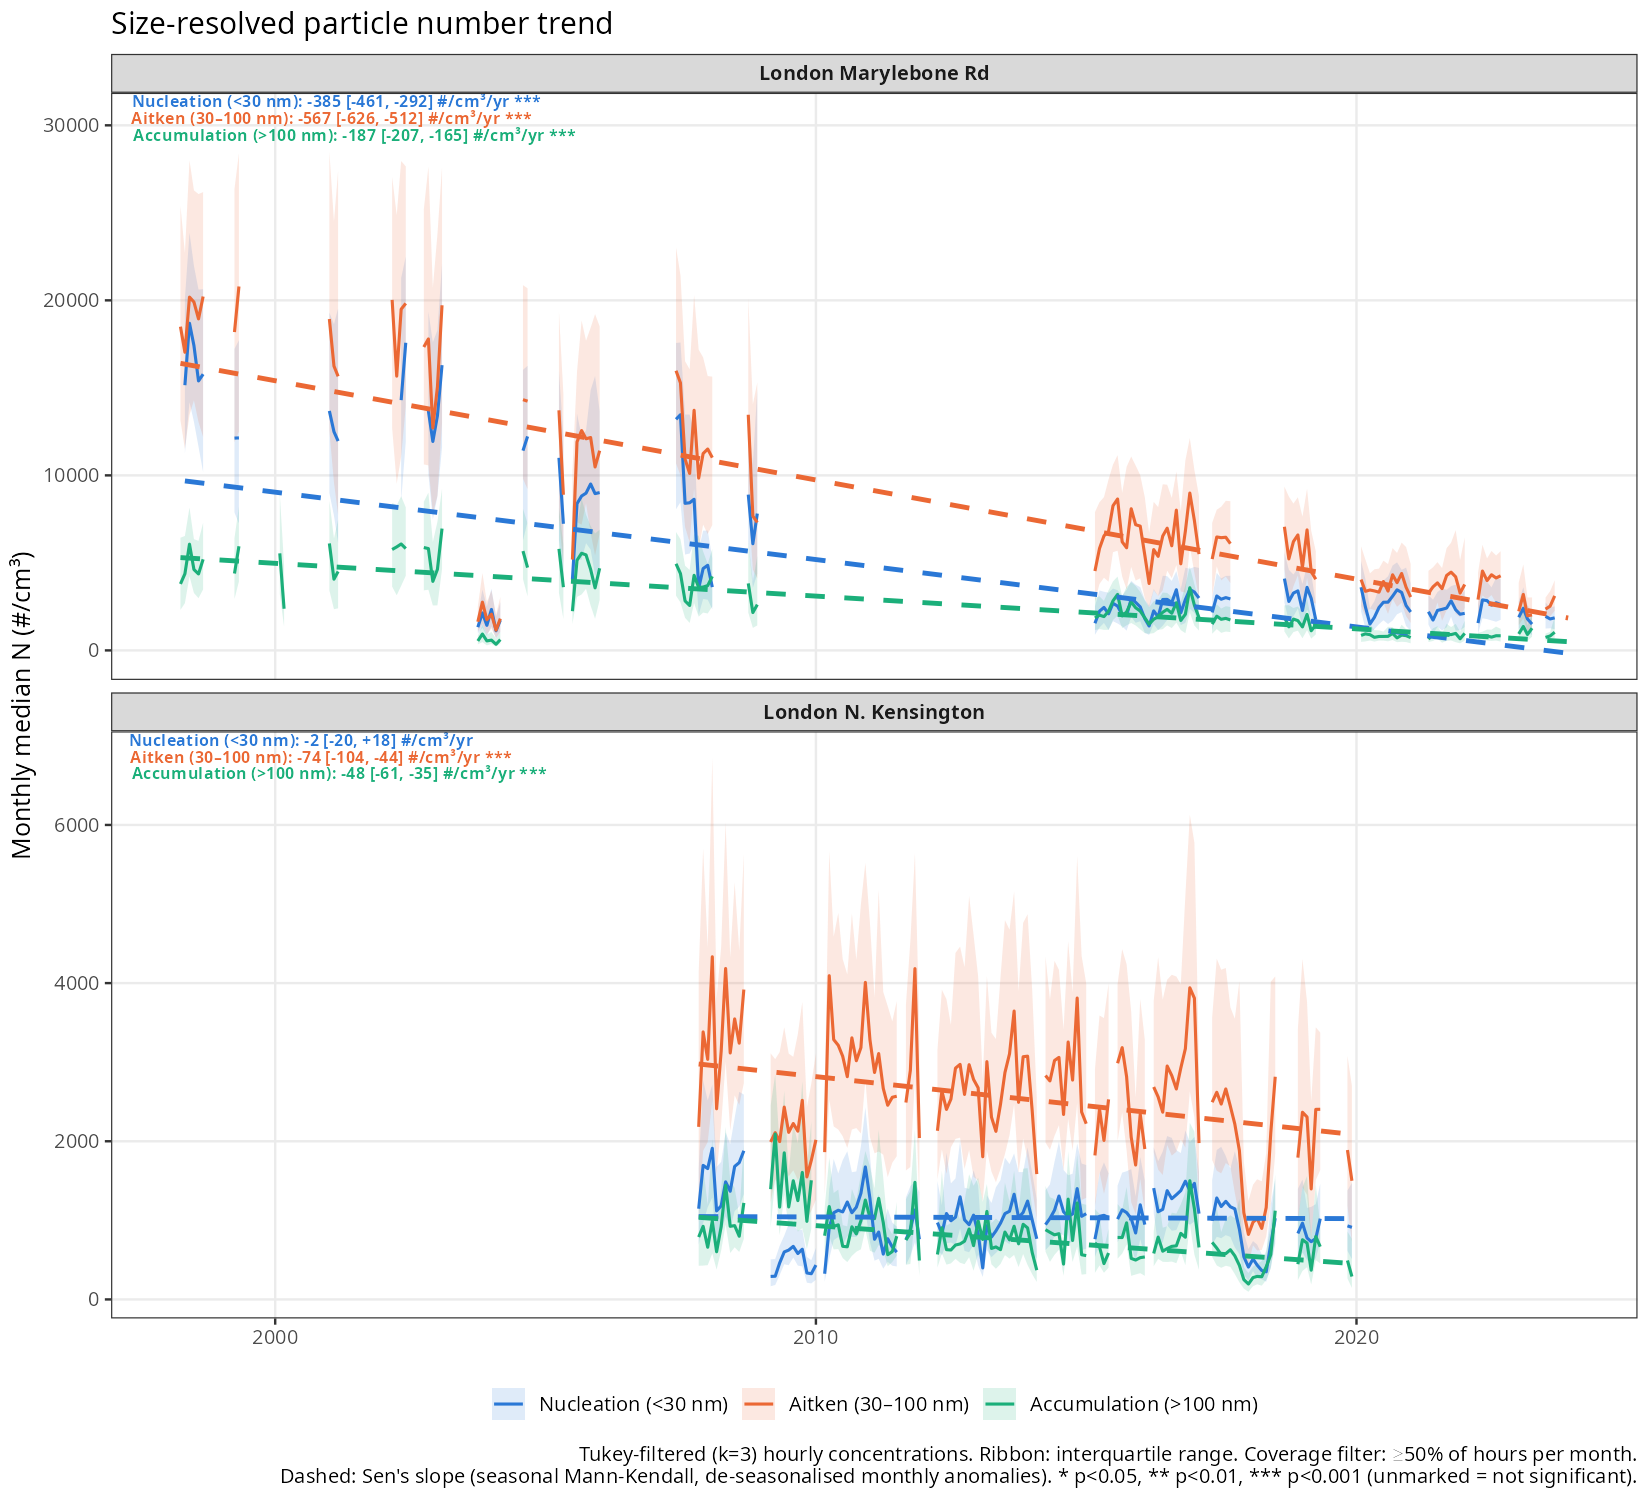
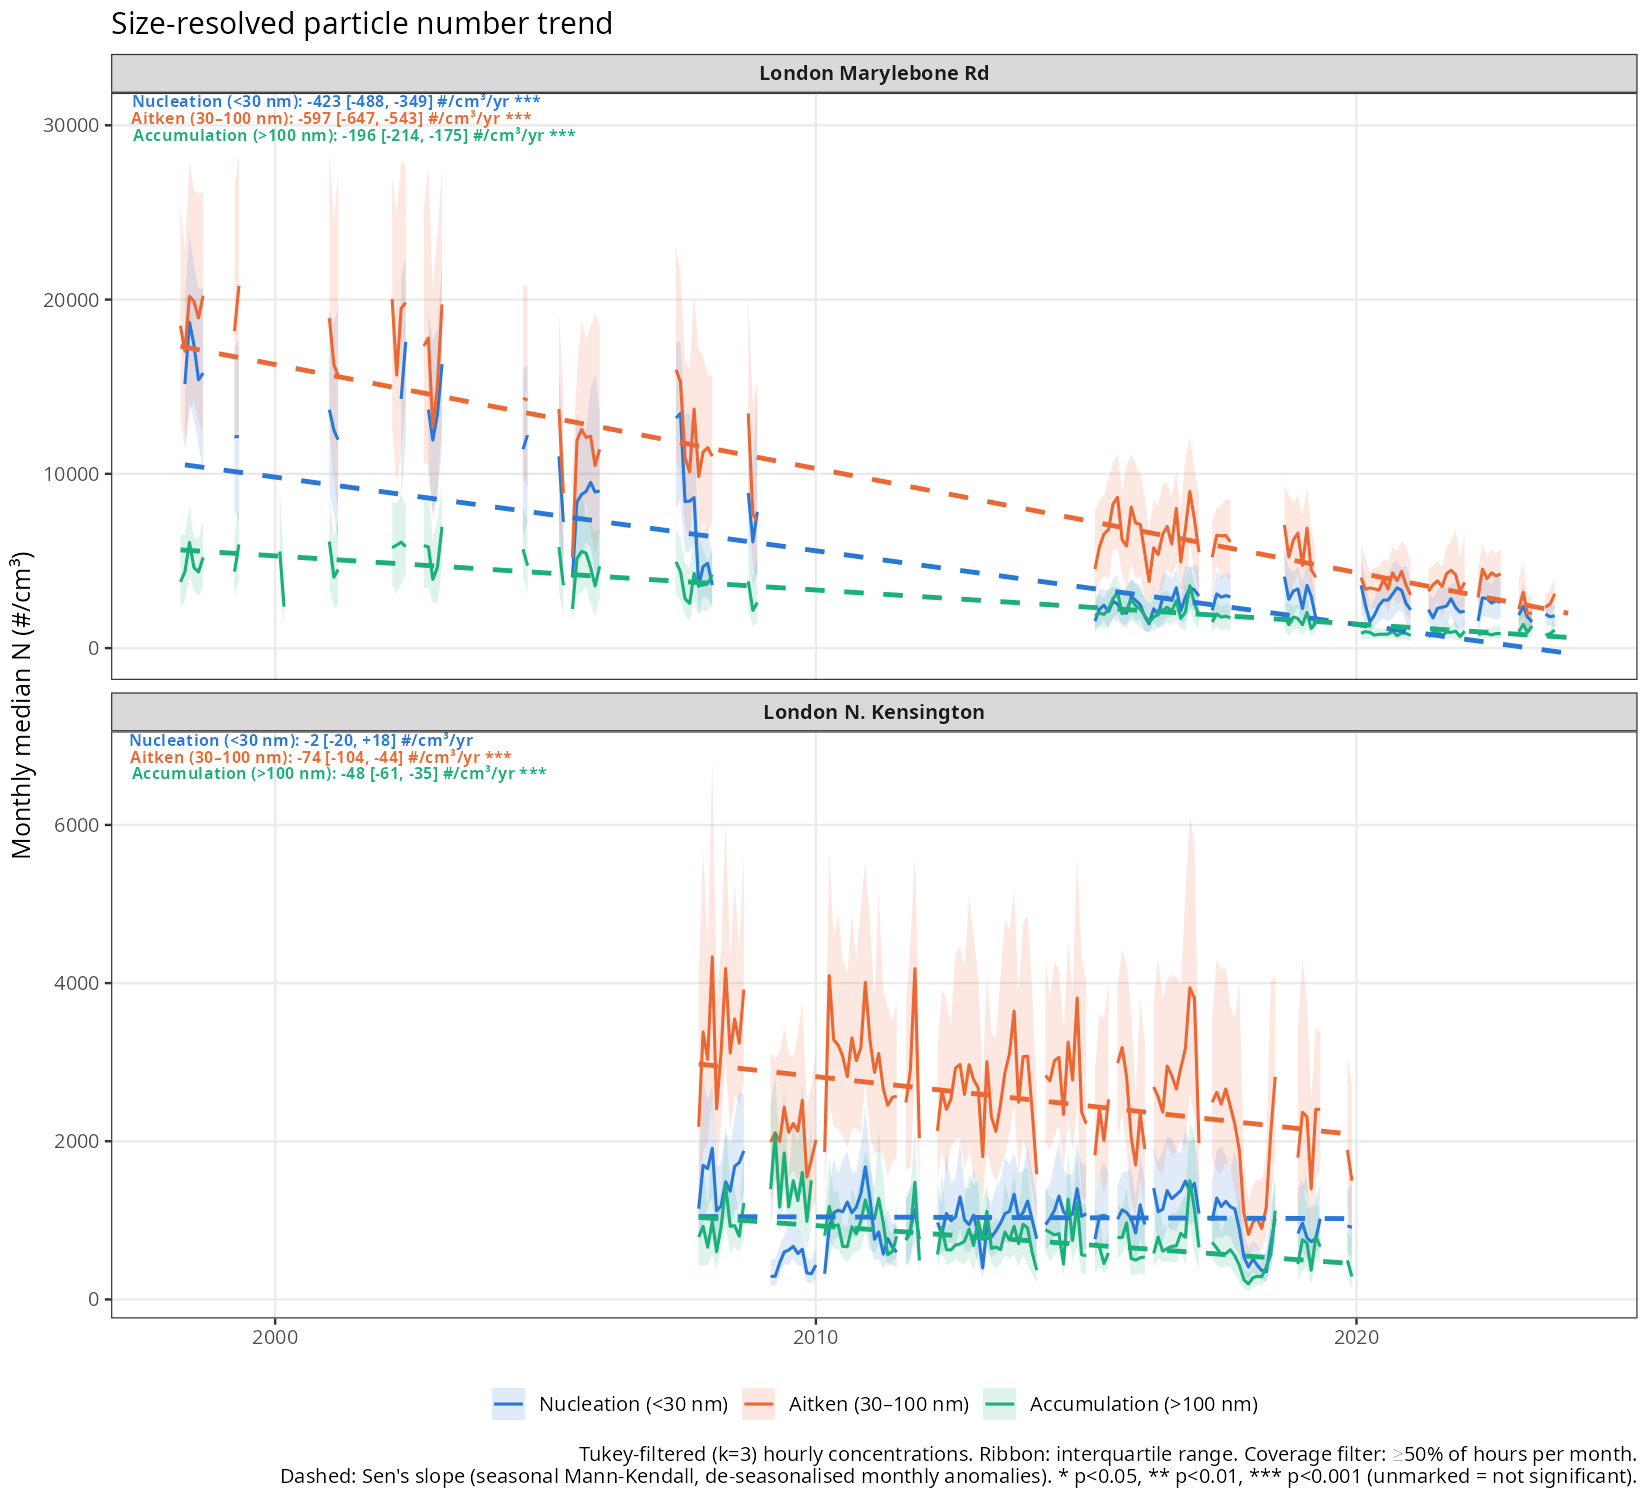
Masked errant data from Marleybone Road from 2004 from plots / analysis

diff --git a/ufp/README.md b/ufp/README.md
@@ -2,7 +2,7 @@
 
 Using publicly available CPC (condensation particle counter) and SMPS (scanning mobility particle sizer) data from long-term UK monitoring sites, this project is investigating long-term and short-term trends in ultrafine particle (UFP) number concentrations and size
 distributions across the UK. Instrument data spans **1998–2025**, though temporal coverage varies per site. 15 sites were identified with CPC observations, six of which also have concurrent SMPS observations. The project harmonises six different instrument generations and data formats, and visualizes long-term trends, seasonal/diurnal structure, and individual
-new-particle-formation (NPF) events.
+new-particle-formation (NPF) events. The figures and analysis below were developed with the assistance of Claude Code.
 
 ![Data coverage](figures/fig1_data_coverage.png)
 
@@ -17,8 +17,6 @@ new-particle-formation (NPF) events.
 | Chilbolton | 2015–2024 | 2020–2023 (51→122 bins) | NPL, UK-AIR |
 | Bloomsbury, Belfast, Glasgow, Manchester PCC, Port Talbot, Tyburn, Lincoln, Birmingham City Centre | 2000–2020 (varies) | — | Defra PMP / AURN |
 
-Additional details in `papers/analysis_summary.md`.
-
 ---
 
 ## Preliminary findings
@@ -31,20 +29,19 @@ Chilbolton), which cluster around 4,000–13,000 #/cm³. London Kensington, the 
 
 ![Long-term trend](figures/fig2_longterm_trend.png)
 
-**2. Size-resolved decline is concentrated in the nucleation and Aitken bands.**
-At Marylebone Rd, Sen's slope trends (seasonal Mann-Kendall test on
+**2. Size-resolved decline is concentrated in the nucleation and Aitken size bands.**
+At Marylebone Rd, Theil-Sen's slope trends (performed on
 de-seasonalised monthly medians) show all three size bands declining
-significantly: Aitken (30–100 nm) −567 [−626, −512], nucleation (<30 nm)
-−385 [−461, −292], and accumulation (>100 nm) −187 [−207, −165] #/cm³/yr
-(all p<0.001) — nucleation and Aitken falling several times faster than
-accumulation. Aitken also carries the widest month-to-month variability of
-the three bands, consistent with its concentration being shaped by episodic
-new-particle-formation and growth events rather than a steady background.
-At London N. Kensington, Aitken and accumulation decline significantly too
+significantly: Aitken (30–100 nm) −597 [−647, −543], nucleation (<30 nm)
+−423 [−488, −349], and accumulation (>100 nm) −196 [−214, −175] #/cm³/yr
+(all p<0.001). Nucleation and Aitken size bins fall several times faster than the
+accumulation band. The Aitken sizes also carry the widest month-to-month variability of
+the three size bands, consistent with its concentration being shaped by episodic
+new-particle-formation and growth events rather than a steady background.  Meanwhile,
+at London N. Kensington, Aitken and accumulation size ranges decline significantly too
 (−74 [−104, −44] and −48 [−61, −35] #/cm³/yr, both p<0.001), but nucleation
 shows no significant trend (−2 [−20, +18] #/cm³/yr) over its 2007–2020
-record — unlike Marylebone, where even the smallest particles show a clear
-long-term decline.
+record, in contrast to Marylebone Rd. In any case, as it has been hypothesized that decreases in PM may increase concentrations of UFPs (i.e., lower concentrations of potential condensation sinks), the results from these sites require further investigation with consideration of concurrent PM2.5 and PM10 measurements, as well as chemical composition information where available.
 
 ![Size-resolved trend](figures/fig4_size_bands.png)
 
@@ -57,14 +54,14 @@ from ~21 nm to ~83 nm at 5.6 nm/hr over 8 traced hours (r² = 0.90).  Future wor
 
 ---
 
-## Methods
+## Methods (summarised by Claude Code)
 
 **Data harmonisation.** Six SMPS instrument generations (1998–2009 Defra PMP
-TSI 3094 units, 2007+ Beddows/NPL AURN instruments, the BAQS TSI-3082/3083
+TSI 3094 units, 2007+ NPL AURN instruments, the BAQS TSI-3082/3083
 system, and the MAQS TSI-3750 system) report in different units, bin
 structures, and file layouts. `read_smps_files()` detects source format by
-column signature and header content, and converts dN-per-bin sources to
-dN/d(log Dp) — the unit every other source already reports in — by dividing
+column signature and header content, and converts dN-per-bin sources to the standardised
+dN/d(log Dp) by dividing
 by the per-bin Δlog(Dp) (`code/load_ufp.R`). Every site's spectrum is then
 interpolated onto a common 64-bin log-spaced scale (10.37–964.66 nm) via
 `smooth.spline` for cross-site comparison.
@@ -78,7 +75,7 @@ year read as a full year's mean).
 
 **Trend statistics.** Long-term trends use Sen's slope with a seasonal
 Mann-Kendall significance test on monthly values, after removing the
-calendar-month climatological mean (de-seasonalising) — this prevents the
+calendar-month climatological mean (de-seasonalising). This prevents the
 annual cycle from inflating or masking the underlying slope. STL
 decomposition (Cleveland et al., 1990; `s.window=13`, `robust=TRUE`)
 separates trend from seasonal component on monthly series with data gaps
@@ -103,7 +100,7 @@ uses to regenerate Figure 3 above without any manual clicking.
 
 ---
 
-## Repository layout
+## Repository layout (summarised by Claude Code)
 
 ```
 code/
@@ -116,7 +113,7 @@ code/
   prep_external.R              library: reformats data for PyNSD compatibility
   met_load.R                    library: AURN meteorological data for polar plots
 
-  prepare_ukair_sites.R    driver: one-off harmonisation of raw AURN/NPL/Beddows/Defra-PMP sources into per-site CSVs
+  prepare_ukair_sites.R    driver: one-off harmonisation of raw AURN/NPL/Defra-PMP sources into per-site CSVs
   cpc-analysis.R            driver: all-site CPC overview, coverage audit, diurnal profiles
   trends-analysis.R          driver: long-term trend analysis — annual means, Theil-Sen, STL, modal fitting, size bands, climatologies
   smps-overview.R             driver: SMPS contour plots + per-site coverage summaries
@@ -147,7 +144,7 @@ source("readme_figures.R")
 ```
 
 This regenerates the four PNGs in `figures/` from cached intermediate data
-(`data/cache/*.Rds`) — a few seconds' runtime, no raw CSV re-parsing. The
+(`data/cache/*.Rds`). The
 underlying **measurement data are not included in this repository** (volume,
 and most of it is third-party redistributed data) — see the site table above
 for original sources: Defra UK-AIR / AURN, the National Physical Laboratory
@@ -162,11 +159,6 @@ The NPF classification workflow, multi-lognormal mode fitting, and
 condensation-sink / coagulation-sink / formation-rate physics
 (`npf_ufp.R`, `npf_physics.R`, `npf_classify.R`) are an R port of James
 Brean's [PyNSD](https://github.com/J-Brean/PyNSD), adapted to this project's
-data structures. Two deliberate departures from the PyNSD reference are
-documented inline in `npf_physics.R`: the condensation-sink sign convention
-(PyNSD's manual-panel code path is used, not its disagreeing
-`physics/condensation.py`), and per-bin rather than single-scalar Δlog(Dp)
-integration, since this project's bin widths are not perfectly uniform.
-
+data structures. 
 ---
 
